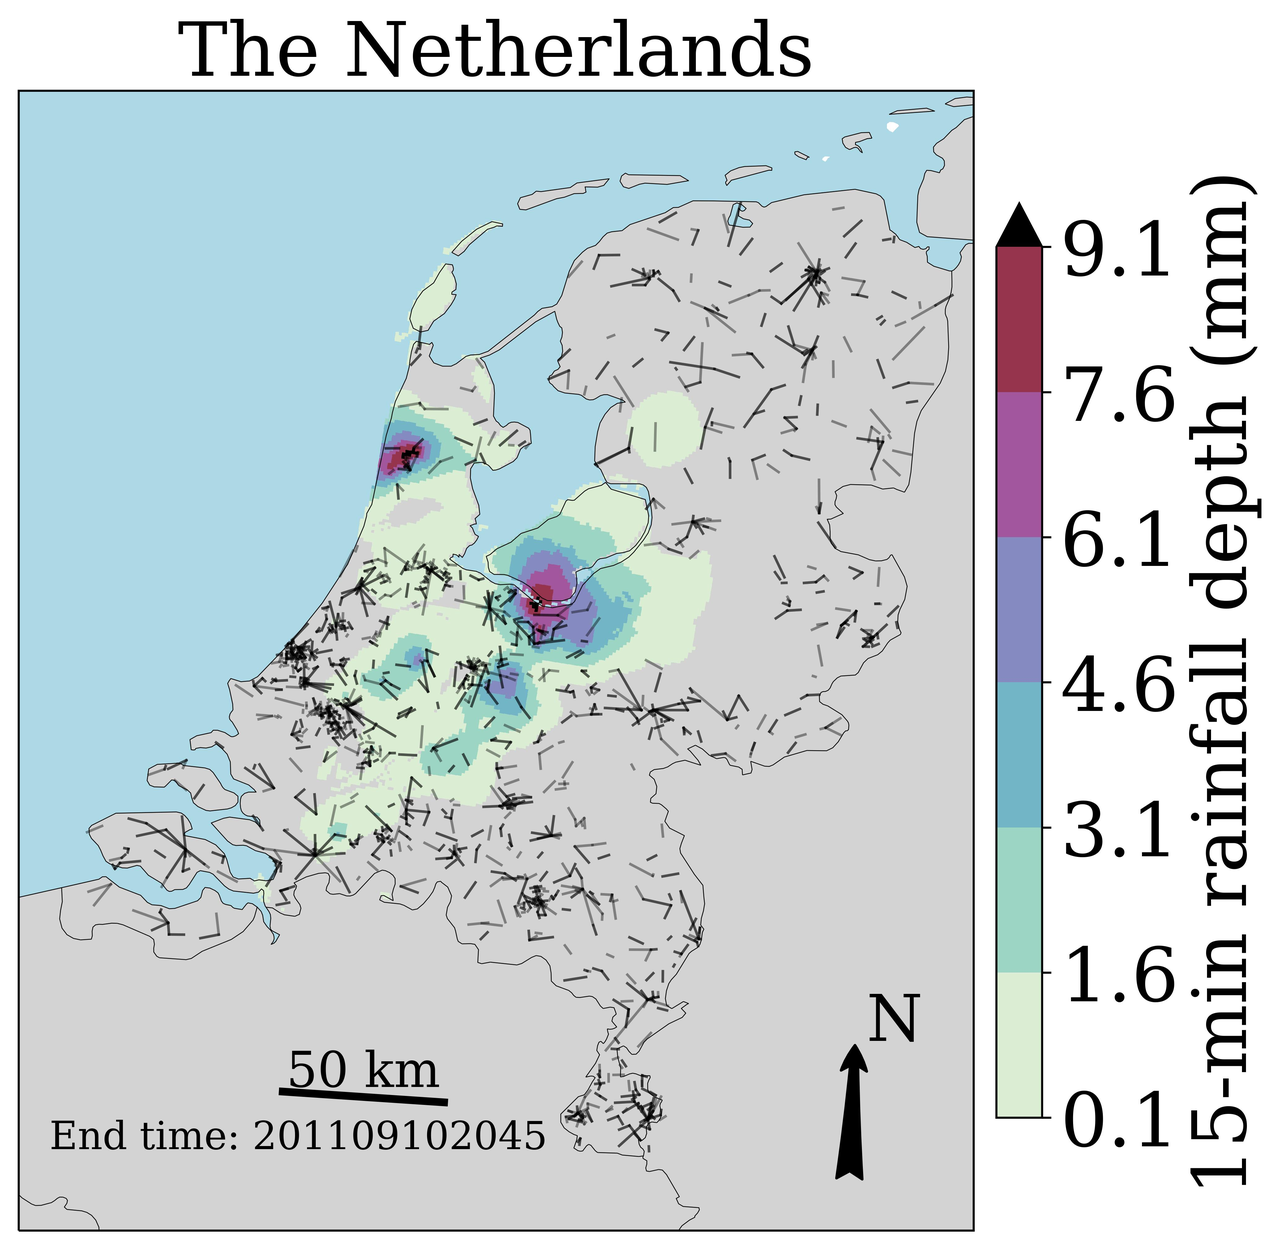
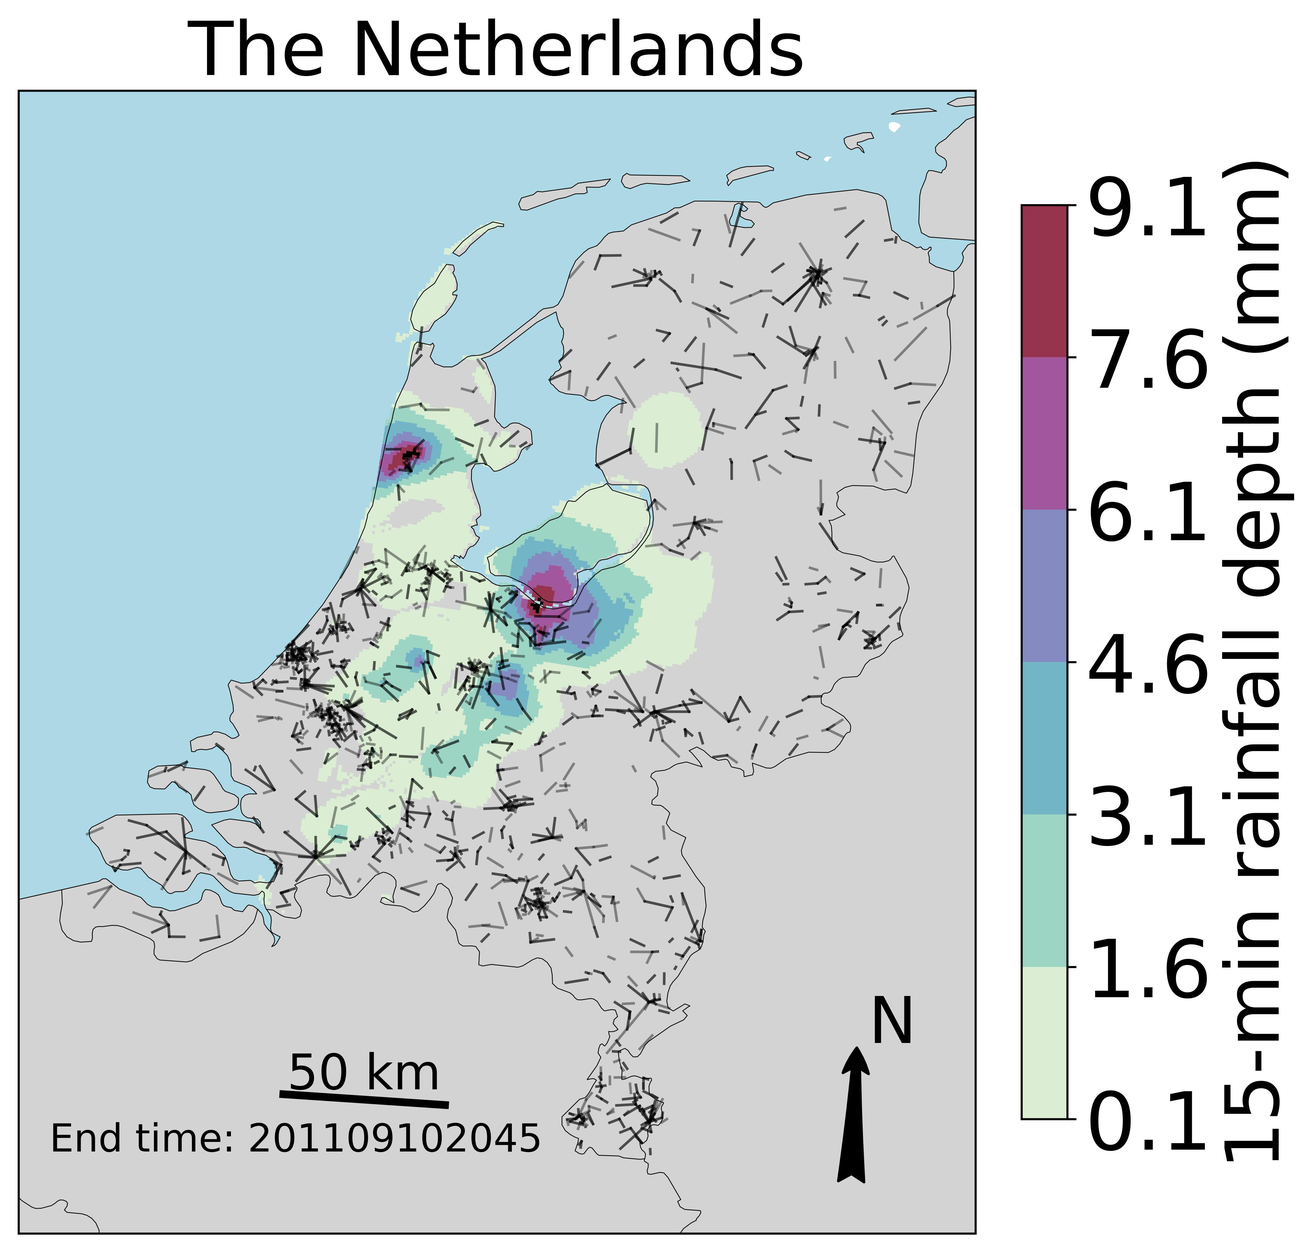
Solved some technical issues
* Solved get_cmap function deprecation (warning): "copy.copy(mpl.cm.get_cmap" was placed by "mpl.colormaps.get_cmap" in visualization script.
* Added a static backend to visualization script to avoid that command line is possibly not cleared after running this script in command line in remote sessions: mpl.use('Cairo').
* Small changes in README.md and Python scripts.

Changed region(s): [[0.0312, 0.0624, 0.9973, 0.9983], [0.1558, 0.0, 0.6545, 0.0624], [0.374, 0.156, 0.4363, 0.1872]]

diff --git a/VisualizeCMLsGaugesRadars_CartopyOSM_GM.py b/VisualizeCMLsGaugesRadars_CartopyOSM_GM.py
@@ -5,8 +5,8 @@
 # Part of MapRAINLINK: https://github.com/overeem11/MapRAINLINK
 #
 #
-## Version 1.02
-## Copyright (C) 2023 Aart Overeem
+## Version 1.1
+## Copyright (C) 2025 Aart Overeem
 ##
 ## This program is free software: you can redistribute it and/or modify
 ## it under the terms of the GNU General Public License as published by
@@ -60,6 +60,8 @@ import copy
 import h5py
 import pyproj
 import pandas as pd
+# Added this static backend (https://matplotlib.org/stable/users/explain/figure/backends.html#static-backends) to avoid that command line is possibly not cleared after running this script in command line in remote sessions:
+mpl.use('Cairo')
 
 
 # Loading Python configuration script with parameter settings:
@@ -181,10 +183,10 @@ if PlotKNMIRadar=="yes" or PlotDataFieldRadarGrid=="yes":
    FILE_NAME = KNMIRadarInputFileName
    f = h5py.File(FILE_NAME, mode='r')
    # Read metadata:    
-   xscale = f['/geographic'].attrs['geo_pixel_size_x']
-   yscale = f['/geographic'].attrs['geo_pixel_size_y']
-   xoffset = f['/geographic'].attrs['geo_column_offset']
-   yoffset = f['/geographic'].attrs['geo_row_offset']
+   xscale = f['/geographic'].attrs['geo_pixel_size_x'][0]
+   yscale = f['/geographic'].attrs['geo_pixel_size_y'][0]
+   xoffset = f['/geographic'].attrs['geo_column_offset'][0]
+   yoffset = f['/geographic'].attrs['geo_row_offset'][0]
    proj4str = f['/geographic/map_projection'].attrs['projection_proj4_params']
    Ncols = f['/geographic'].attrs['geo_number_columns']
    Nrows = f['/geographic'].attrs['geo_number_rows']
@@ -223,14 +225,14 @@ if PlotKNMIRadar=="yes" or PlotDataFieldRadarGrid=="yes":
          Xref = int((i+xoffset)*xscale)
          Yref = int((j+yoffset)*yscale)
          LonArray[j][i], LatArray[j][i] = p(Xref,Yref,inverse=True)
-         RArrayCML[j][i] = 0.0
+         # Start with a rainfall field filled with nans:
+         RArrayCML[j][i] = np.nan
          # The dimensions of X and Y should be one greater than those of C. 
 
 
    if PlotDataFieldRadarGrid=="yes":
       # Import row and column numbers of interpolation grid, i.e., connected to the Dutch radar grid:
       RowNr, ColNr = loadtxt(FileNameRowColNumbersRadarGrid, comments="#", delimiter=",", usecols=(0, 1), unpack=True, dtype ='int')
-      # Start with a rainfall field filled with zeroes:   
       RArray = np.array(RArrayCML)
       # Fill array with CML rainfall field values for row and column numbers provided in "FileNameRowColNumbersRadarGrid":
       for k in range(0,RowNr.shape[0]):
@@ -309,7 +311,7 @@ if PlotOPERARadar=="yes":
 ##################
 
 # Map settings (e.g. projection and extent of area):
-plt.rcParams["font.family"] = "serif"
+plt.rcParams["font.family"] = "sans-serif"
 plt.rcParams.update({'font.size': FontSizeLegendLabel}) 
 plt.close('all')
 transform = ccrs.PlateCarree()
@@ -358,10 +360,10 @@ if PlotCML=="yes" or PlotCMLTimeInterval=="yes":
 if PlotGaugeNetwork1=="yes":
    # Plot locations rain gauges as points:
    if PlotValuesGaugesNetwork1=="no":
-      plt.scatter(lon_gaugesNetwork1, lat_gaugesNetwork1, s=SizeMarkerGaugesNetwork1, color=ColorGaugeNetwork1, zorder=zorderPoint, transform=transform, marker=MarkerGaugeNetwork1, facecolors="none", alpha=alphaPoint)
+      plt.scatter(lon_gaugesNetwork1, lat_gaugesNetwork1, s=SizeMarkerGaugesNetwork1, color=ColorGaugeNetwork1, zorder=zorderPoint, transform=transform, marker=MarkerGaugeNetwork1, alpha=alphaPoint)
       if LabelGaugeNetwork=="yes":
          # Plot legend:
-         plt.scatter(LongitudeLabelGaugesNetwork1, LatitudeLabelGaugesNetwork1, s=SizeMarkerGaugesNetwork1, color=ColorGaugeNetwork1, zorder=zorderPoint, transform=transform, marker=MarkerGaugeNetwork1, facecolors="none", alpha=alphaPoint)
+         plt.scatter(LongitudeLabelGaugesNetwork1, LatitudeLabelGaugesNetwork1, s=SizeMarkerGaugesNetwork1, color=ColorGaugeNetwork1, zorder=zorderPoint, transform=transform, marker=MarkerGaugeNetwork1, alpha=alphaPoint)
          plt.text(LongitudeLabelGaugesNetwork1+LongitudeOffsetLabelNameAndNamesGaugesNetwork1, LatitudeLabelGaugesNetwork1+LatitudeOffsetLabelNameAndNamesGaugesNetwork1, LabelNameGaugesNetwork1, fontsize=FontSizeLabelNameGaugesNetwork1, transform=transform, color=ColorLabelNameGaugesNetwork1)
    if NamesGaugeNetwork=="yes":
       for i, label in enumerate(station_nameNetwork1):
@@ -372,10 +374,10 @@ if PlotGaugeNetwork1=="yes":
 if PlotGaugeNetwork2=="yes":
    # Plot location hourly rain gauges as points:
    if PlotValuesGaugesNetwork2=="no":
-      plt.scatter(lon_gaugesNetwork2, lat_gaugesNetwork2, s=SizeMarkerGaugesNetwork2, color=ColorGaugeNetwork2, zorder=zorderPoint, transform=transform, marker=MarkerGaugeNetwork2, facecolors="none", alpha=alphaPoint)
+      plt.scatter(lon_gaugesNetwork2, lat_gaugesNetwork2, s=SizeMarkerGaugesNetwork2, color=ColorGaugeNetwork2, zorder=zorderPoint, transform=transform, marker=MarkerGaugeNetwork2, alpha=alphaPoint)
       if LabelGaugeNetwork=="yes":
          # Plot legend:
-         plt.scatter(LongitudeLabelGaugesNetwork2, LatitudeLabelGaugesNetwork2, s=SizeMarkerGaugesNetwork2, color=ColorGaugeNetwork2, zorder=zorderPoint, transform=transform, marker=MarkerGaugeNetwork2, facecolors="none", alpha=alphaPoint)
+         plt.scatter(LongitudeLabelGaugesNetwork2, LatitudeLabelGaugesNetwork2, s=SizeMarkerGaugesNetwork2, color=ColorGaugeNetwork2, zorder=zorderPoint, transform=transform, marker=MarkerGaugeNetwork2, alpha=alphaPoint)
          plt.text(LongitudeLabelGaugesNetwork2+LongitudeOffsetLabelNameAndNamesGaugesNetwork2, LatitudeLabelGaugesNetwork2+LatitudeOffsetLabelNameAndNamesGaugesNetwork2, LabelNameGaugesNetwork2, fontsize=FontSizeLabelNameGaugesNetwork2, transform=transform, color=ColorLabelNameGaugesNetwork2)
    if NamesGaugeNetwork=="yes":
       for i, label in enumerate(station_nameNetwork2):
@@ -385,10 +387,10 @@ if PlotGaugeNetwork2=="yes":
 # Plot locations of rain gauges from network 3:
 if PlotGaugeNetwork3=="yes":
    # Plot location hourly rain gauges as points:
-   plt.scatter(lon_gaugesNetwork3, lat_gaugesNetwork3, s=SizeMarkerGaugesNetwork3, color=ColorGaugeNetwork3, zorder=zorderPoint, transform=transform, marker=MarkerGaugeNetwork3, facecolors="none", alpha=alphaPoint)
+   plt.scatter(lon_gaugesNetwork3, lat_gaugesNetwork3, s=SizeMarkerGaugesNetwork3, color=ColorGaugeNetwork3, zorder=zorderPoint, transform=transform, marker=MarkerGaugeNetwork3, alpha=alphaPoint)
    if LabelGaugeNetwork=="yes":
       # Plot legend:
-      plt.scatter(LongitudeLabelGaugesNetwork3, LatitudeLabelGaugesNetwork3, s=SizeMarkerGaugesNetwork3, color=ColorGaugeNetwork3, zorder=zorderPoint, transform=transform, marker=MarkerGaugeNetwork3, facecolors="none", alpha=alphaPoint)
+      plt.scatter(LongitudeLabelGaugesNetwork3, LatitudeLabelGaugesNetwork3, s=SizeMarkerGaugesNetwork3, color=ColorGaugeNetwork3, zorder=zorderPoint, transform=transform, marker=MarkerGaugeNetwork3, alpha=alphaPoint)
       plt.text(LongitudeLabelGaugesNetwork3+LongitudeOffsetLabelNameAndNamesGaugesNetwork3, LatitudeLabelGaugesNetwork3+LatitudeOffsetLabelNameAndNamesGaugesNetwork3, LabelNameGaugesNetwork3, fontsize=FontSizeLabelNameGaugesNetwork3, transform=transform, color=ColorLabelNameGaugesNetwork3)
    if NamesGaugeNetwork=="yes":
       for i, label in enumerate(station_nameNetwork3):
@@ -400,7 +402,7 @@ if PlotDataField=="yes" or PlotValuesGaugesNetwork1=="yes" or PlotValuesGaugesNe
    # Obtain color scale:
    if ScaleType!="YellowRed" and ScaleType!="CbF":
       levels = levels
-      cmap = copy.copy(mpl.cm.get_cmap(ScaleType))
+      cmap = mpl.colormaps.get_cmap(ScaleType)
    if ScaleType=="YellowRed":
       levels = levels
       cmap = mpl.colors.ListedColormap(['#ffffb2','#fed976','#feb24c','#fd8d3c','#f03b20','#bd0026'])
@@ -513,7 +515,7 @@ if PlotDataField=="yes" or PlotValuesGaugesNetwork1=="yes" or PlotValuesGaugesNe
       if ColorBar=="yes":
          # Plot color bar:
          font = mpl.font_manager.FontProperties(size=FontSizeLegend)         
-         cbar = plt.colorbar(pad=DistanceBetweenMapAndColorBar,shrink=SizeLegend,extend="max")
+         cbar = plt.colorbar(pad=DistanceBetweenMapAndColorBar,shrink=SizeLegend)
          cbar.set_label(LabelName)
          text = ax.yaxis.label
          text.set_font_properties(font)
@@ -536,7 +538,7 @@ if TypeBackGroundMap=="NE":
    if DrawLakelines=="yes":
       ax.add_feature(cartopy.feature.LAKES, edgecolor="black", linewidth=0.3, facecolor="none",zorder=2)
 
-  
+ 
 # Draw parallels & meridians: 
 if DrawParallelsMeridians=="yes":
     if PlotParallelsMeridiansInFront=="yes":

diff --git a/ConfigVisualizeCMLsGaugesRadars_CartopyOSM_GM.py b/ConfigVisualizeCMLsGaugesRadars_CartopyOSM_GM.py
@@ -5,8 +5,8 @@
 # Part of MapRAINLINK: https://github.com/overeem11/MapRAINLINK
 #
 #
-## Version 1.02
-## Copyright (C) 2023 Aart Overeem
+## Version 1.1
+## Copyright (C) 2025 Aart Overeem
 ##
 ## This program is free software: you can redistribute it and/or modify
 ## it under the terms of the GNU General Public License as published by
@@ -81,7 +81,7 @@ if Projection=="yes" and TypeBackGroundMap=="NE":
 
 
 # 2.2 Output filename (map).
-OutputFileName = "Netherlands.jpg"		# Name of output file with map. Can at least be "jpg" or "pdf".
+OutputFileName = "Netherlands.jpg"		# Name of output file with map. Can at least be "jpg", "pdf" or "png", which automatically chooses the file format.
 
 
 # 2.3 Miscellaneous settings.
@@ -345,7 +345,7 @@ ConversionFactorKNMIRadar = 1			# Conversion factor in case rainfall accumulatio
                                                 # Note that the KNMI precipitation radar data provide accumulations in millimeters.
 DATAFIELD_NAME = "/image1/image_data"           # Path of radar image to be plotted.
 DATAFIELD_NAMECAL = "/image1/calibration"       # Location of metadata to convert precipitation to millimeters and to obtain "nodata" & "undetect" values.
-KNMIRadarInputFileName = "RAD_NL25_RAC_MFBS_24H_201805300800_NL.h5"	# Filename of file with interpolated rainfall map data.
+KNMIRadarInputFileName = "RAD_NL25_RAC_MFBS_24H_201805300800_NL.h5"	# Filename of file with gridded radar rainfall data.
 
 
 
@@ -368,7 +368,7 @@ ConversionFactorOPERARadar = 1			# Conversion factor in case rainfall accumulati
                                                 # Note that the OPERA precipitation radar data provide accumulations in millimeters in case of hourly accumulations or the 1-h and 24-h
                                                 # EURADCLIM datasets, but OPERA also provides a product of instantaneous surface rainfall intensities.
 DatasetNr = "/dataset1"           		# Path of radar image to be plotted. 
-OPERARadarInputFileName = "RAD_OPERA_24H_RAINFALL_ACCUMULATION_201305311400.h5"	# Filename of file with interpolated rainfall map data.
+OPERARadarInputFileName = "RAD_OPERA_24H_RAINFALL_ACCUMULATION_201305311400.h5"	# Filename of file with gridded radar rainfall data.
 
 
 

diff --git a/ConfigVisualizeCMLsGaugesRadars_CartopyOSM_GM_SriLanka.py b/ConfigVisualizeCMLsGaugesRadars_CartopyOSM_GM_SriLanka.py
@@ -5,8 +5,8 @@
 # Part of MapRAINLINK: https://github.com/overeem11/MapRAINLINK
 #
 #
-## Version 1.02
-## Copyright (C) 2023 Aart Overeem
+## Version 1.1
+## Copyright (C) 2025 Aart Overeem
 ##
 ## This program is free software: you can redistribute it and/or modify
 ## it under the terms of the GNU General Public License as published by
@@ -82,7 +82,7 @@ if Projection=="yes" and TypeBackGroundMap=="NE":
 
 
 # 2.2 Output filename (map).
-OutputFileName = "SriLanka.jpg"			# Name of output file with map. Can at least be "jpg" or "pdf".
+OutputFileName = "SriLanka.jpg"			# Name of output file with map. Can at least be "jpg", "pdf" or "png", which automatically chooses the file format.
 
 
 # 2.3 Miscellaneous settings.
@@ -351,7 +351,7 @@ ConversionFactorKNMIRadar = 1			# Conversion factor in case rainfall accumulatio
                                                 # Note that the KNMI precipitation radar data provide accumulations in millimeters.
 DATAFIELD_NAME = "/image1/image_data"           # Path of radar image to be plotted.
 DATAFIELD_NAMECAL = "/image1/calibration"       # Location of metadata to convert precipitation to millimeters and to obtain "nodata" & "undetect" values.
-KNMIRadarInputFileName = "RAD_NL25_RAC_MFBS_24H_201805300800_NL.h5"	# Filename of file with interpolated rainfall map data.
+KNMIRadarInputFileName = "RAD_NL25_RAC_MFBS_24H_201805300800_NL.h5"	# Filename of file with gridded radar rainfall data.
 
 
 
@@ -375,7 +375,7 @@ ConversionFactorOPERARadar = 1			# Conversion factor in case rainfall accumulati
                                                 # Note that the OPERA precipitation radar data provide accumulations in millimeters in case of hourly accumulations or the 1-h and 24-h
                                                 # EURADCLIM datasets, but OPERA also provides a product of instantaneous surface rainfall intensities.
 DatasetNr = "/dataset1"           		# Path of radar image to be plotted. 
-OPERARadarInputFileName = "RAD_OPERA_24H_RAINFALL_ACCUMULATION_201305311400.h5"	# Filename of file with interpolated rainfall map data.
+OPERARadarInputFileName = "RAD_OPERA_24H_RAINFALL_ACCUMULATION_201305311400.h5"	# Filename of file with grided radar rainfall data.
 
   
 

diff --git a/AccumulateRadarHDF5KNMIListCount.py b/AccumulateRadarHDF5KNMIListCount.py
@@ -5,8 +5,8 @@
 # Part of MapRAINLINK: https://github.com/overeem11/MapRAINLINK
 #
 #
-## Version 1.02
-## Copyright (C) 2023 Aart Overeem
+## Version 1.1
+## Copyright (C) 2025 Aart Overeem
 ##
 ## This program is free software: you can redistribute it and/or modify
 ## it under the terms of the GNU General Public License as published by

diff --git a/README.md b/README.md
@@ -12,12 +12,12 @@ python VisualizeCMLsGaugesRadars_CartopyOSM_GM.py ConfigVisualizeCMLsGaugesRadar
 ```
 <img src="Netherlands.jpg" alt="drawing" width="500"/>
 
-Map made with Natural Earth. Free vector and raster map data copyright naturalearthdata.com. Note that this reproduces Figure 5 (left) from https://doi.org/10.5194/amt-9-2425-2016 (but that was obtained with a different plotting package and different colors and classes).
+Map made with Natural Earth. Free vector and raster map data &copy naturalearthdata.com. Note that this reproduces Figure 5 (left) from https://doi.org/10.5194/amt-9-2425-2016 (but that was obtained with a different plotting package and different colors and classes).
 
 # Detailed explanation of plotting
 All the plotting options and input and output files need to be specified in the configuration script "ConfigVisualizeCMLsGaugesRadars_CartopyOSM_GM.py", although it is also possible to provide additional arguments on the command line, which will overrule the settings in the configuration script. These interpolated CML values from the above example are output from RAINLINK and are stored in file "linkmap_201109102045.dat". This file has been obtained by running RAINLINK with the built-in 2-day sample dataset. These are interpolated values at the middle of the grid cells of the Dutch radar grid ("InterpolationGrid.dat" from https://github.com/overeem11/RAINLINK). In order to plot these, "PlotDataFieldRadarGrid" must be set to "yes" in the configuration script. First, the radar file "RAD_NL25_RAC_MFBS_24H_201805300800_NL.h5" is read, so that the polygons for the plotting can be constructed ("KNMIRadarInputFileName" in the configuration script), where the associated radar values are set to 0 in the Python script. The file "InterpolationGridRowColNrsRadarGrid.dat" ("FileNameRowColNumbersRadarGrid" in the configuration script) is read to obtain the column and row numbers of the radar grid for the CML grid cells. Next, these grid cells are filled with the interpolated CML rainfall values. 
 
-In case path-average rainfall needs to be visualized, the RAINLINK output from file  "linkdata_201109102045.dat" is used, and "PlotCMLTimeInterval" and "PlotValuesCMLPathAverage" must be set to "yes" in the configuration script. "PlotDataField" may be set not equal to "yes" to avoid that the CML rainfall field and CML path averages are plotted together. The file "StationMetadataNetwork1.dat" contains locations of the two C-band ground-based weather radars in the Netherlands. These locations can be visualized by setting "PlotGaugeNetwork1" to "yes" in the configuration script. If also "PlotValuesGaugesNetwork1" is set to "yes", the associated rainfall values are visualized (this is meant as an illustration of plotting rainfall values for gauge locations, the radar itself obviously does not observe point values). More information on usage is provided in the configuration and visualization scripts. 
+In case path-average rainfall needs to be visualized, the RAINLINK output from file "linkdata_201109102045.dat" is used, and "PlotCMLTimeInterval" and "PlotValuesCMLPathAverage" must be set to "yes" in the configuration script. "PlotDataField" may be set not equal to "yes" to avoid that the CML rainfall field and CML path averages are plotted together. The file "StationMetadataNetwork1.dat" contains locations of the two C-band ground-based weather radars in the Netherlands. These locations can be visualized by setting "PlotGaugeNetwork1" to "yes" in the configuration script. If also "PlotValuesGaugesNetwork1" is set to "yes", the associated rainfall values are visualized (this is meant as an illustration of plotting rainfall values for gauge locations, the radar itself obviously does not observe point values). More information on usage is provided in the configuration and visualization scripts. Note that the first line in a file with locations (e.g., from CMLs, radars, or rain gauges) is not used, because it is assumed that the first line contains the header with variable names. Also note that lines with # at the beginning are skipped (so make sure that the first line does not contain #; this is automatically the case for RAINLINK output with CML locations).
 
 # Plotting for other regions or interpolation grids
 For other regions or interpolation grids, "PlotDataFieldRadarGrid" must be made not equal to "yes", and a grid with "fixed changes in degrees", e.g. a 0.02 degree grid in latitude and longitude, must be used (defined by "InterpolationGrid" in the configuration script). Such an interpolation grid can be constructed by following the recipe below, and must be used with RAINLINK to obtain the interpolated data at this grid. Next, it can be used to visualize CML rainfall maps. Here, an example is provided for Sri Lanka, which reproduces Figure 5(e) from https://doi.org/10.1088/1748-9326/ac0fa6 (but that was obtained with a different plotting package), the map "SriLanka.jpg":
@@ -25,7 +25,7 @@ For other regions or interpolation grids, "PlotDataFieldRadarGrid" must be made 
 python VisualizeCMLsGaugesRadars_CartopyOSM_GM.py ConfigVisualizeCMLsGaugesRadars_CartopyOSM_GM_SriLanka.py
 ```
 <img src="SriLanka.jpg" alt="drawing" width="500"/>
-&copy OpenStreetMap contributors 2022. Distributed under the Open Data Commons Open Database License (ODbL) v1.0. The CML interpolated values are obtained from file "linkmap_201910171615_SriLanka.dat", which is "linkmap_201910171615.dat" in the publicly availabe dataset https://doi.org/10.4121/14166539.v2. A recipe to obtain an interpolation grid for RAINLINK and one for the plotting with "VisualizeCMLsGaugesRadars_CartopyOSM_GM.py" for Sri Lanka is given below:
+&copy OpenStreetMap contributors 2025. Distributed under the Open Data Commons Open Database License (ODbL) v1.0. The CML interpolated values are obtained from file "linkmap_201910171615_SriLanka.dat", which is "linkmap_201910171615.dat" in the publicly availabe dataset https://doi.org/10.4121/14166539.v2. A recipe to obtain an interpolation grid for RAINLINK and one for the plotting with "VisualizeCMLsGaugesRadars_CartopyOSM_GM.py" for Sri Lanka is given below:
 
 1. Start R and run this script to obtain the interpolation grid for Sri Lanka:
 ```
@@ -54,8 +54,8 @@ This produces the file "InterpolationGrid_SriLanka_Plus_Indices.dat", which cont
 
 6. Simply follow the above steps for deriving your own interpolation grids for interpolation with RAINLINK and/or visualization with MapRAINLINK.
 
-# Error message
-It seems that this error message is not a problem:
+# Warning message
+It seems that this warning message is not a problem:
 
 "UserWarning: The input coordinates to pcolormesh are interpreted as cell centers, but are not monotonically increasing or decreasing. This may lead to incorrectly calculated cell edges, in which case, please supply explicit cell edges to pcolormesh."
 
@@ -77,12 +77,10 @@ python VisualizeCMLsGaugesRadars_CartopyOSM_GM.py ConfigVisualizeCMLsGaugesRadar
 ```
 <img src="NetherlandsRadar.jpg" alt="drawing" width="500"/>
 
-Map made with Natural Earth. Free vector and raster map data copyright naturalearthdata.com. Note that this reproduces Figure 5 (right) from https://doi.org/10.5194/amt-9-2425-2016 (but that was obtained with a different plotting package and different colors and classes). This map can be compared with the CML-based rainfall map given above for the same time interval.
+Map made with Natural Earth. Free vector and raster map data &copy naturalearthdata.com. Note that this reproduces Figure 5 (right) from https://doi.org/10.5194/amt-9-2425-2016 (but that was obtained with a different plotting package and different colors and classes). This map can be compared with the CML-based rainfall map given above for the same time interval.
 
 # Visualizing OPERA radar data
-MapRAINLINK can also visualize gridded OPERA radar data in HDF5-ODIM format. Then the file "CoordinatesHDF5ODIMWGS84.dat" is needed. It contains the coordinates of the center of radar grid cells with longitude (first column) and latitude (second column) in degrees (WGS84). More tools for working with OPERA radar data, and the derived climatological dataset EURADCLIM, can be found here: https://github.com/overeem11/EURADCLIM-tools. EURADCLIM is a dataset of 1-h and 24-h precipitation accumulations covering 78% of geographical Europe (https://doi.org/10.21944/7ypj-wn68 & https://doi.org/10.21944/1a54-gg96). The accompanying scientific article can be found here: https://doi.org/10.5194/essd-15-1441-2023. The EURADCLIM file "RAD_OPERA_24H_RAINFALL_ACCUMULATION_201305311400.h5" contains 24-h accumulations for one interval and can be used for testing.
+MapRAINLINK can also visualize gridded OPERA radar data in HDF5-ODIM format. Then the file "CoordinatesHDF5ODIMWGS84.dat" is needed. It contains the coordinates of the center of radar grid cells with longitude (first column) and latitude (second column) in degrees (WGS84). More tools for working with OPERA radar data, and the derived climatological dataset EURADCLIM, can be found here: https://github.com/overeem11/EURADCLIM-tools. EURADCLIM is a dataset of 1-h and 24-h precipitation accumulations covering 78% of geographical Europe (https://doi.org/10.21944/ymrk-mr24 & https://doi.org/10.21944/kcd7-3y59; version 2 of the dataset). The accompanying scientific article can be found here: https://doi.org/10.5194/essd-15-1441-2023 (version 1 of the dataset). The EURADCLIM file "RAD_OPERA_24H_RAINFALL_ACCUMULATION_201305311400.h5" contains 24-h accumulations for one interval and can be used for testing.
 
 # Reference
-When referring to MapRAINLINK, please use:
-
-Aart Overeem. (2023). MapRAINLINK (v1.02). Zenodo. https://doi.org/10.5281/zenodo.7611398
+When referring to MapRAINLINK, please check Zenodo and use the citation with doi to the current version (on https://doi.org/10.5281/zenodo.7611398 you can search for the newest version).
